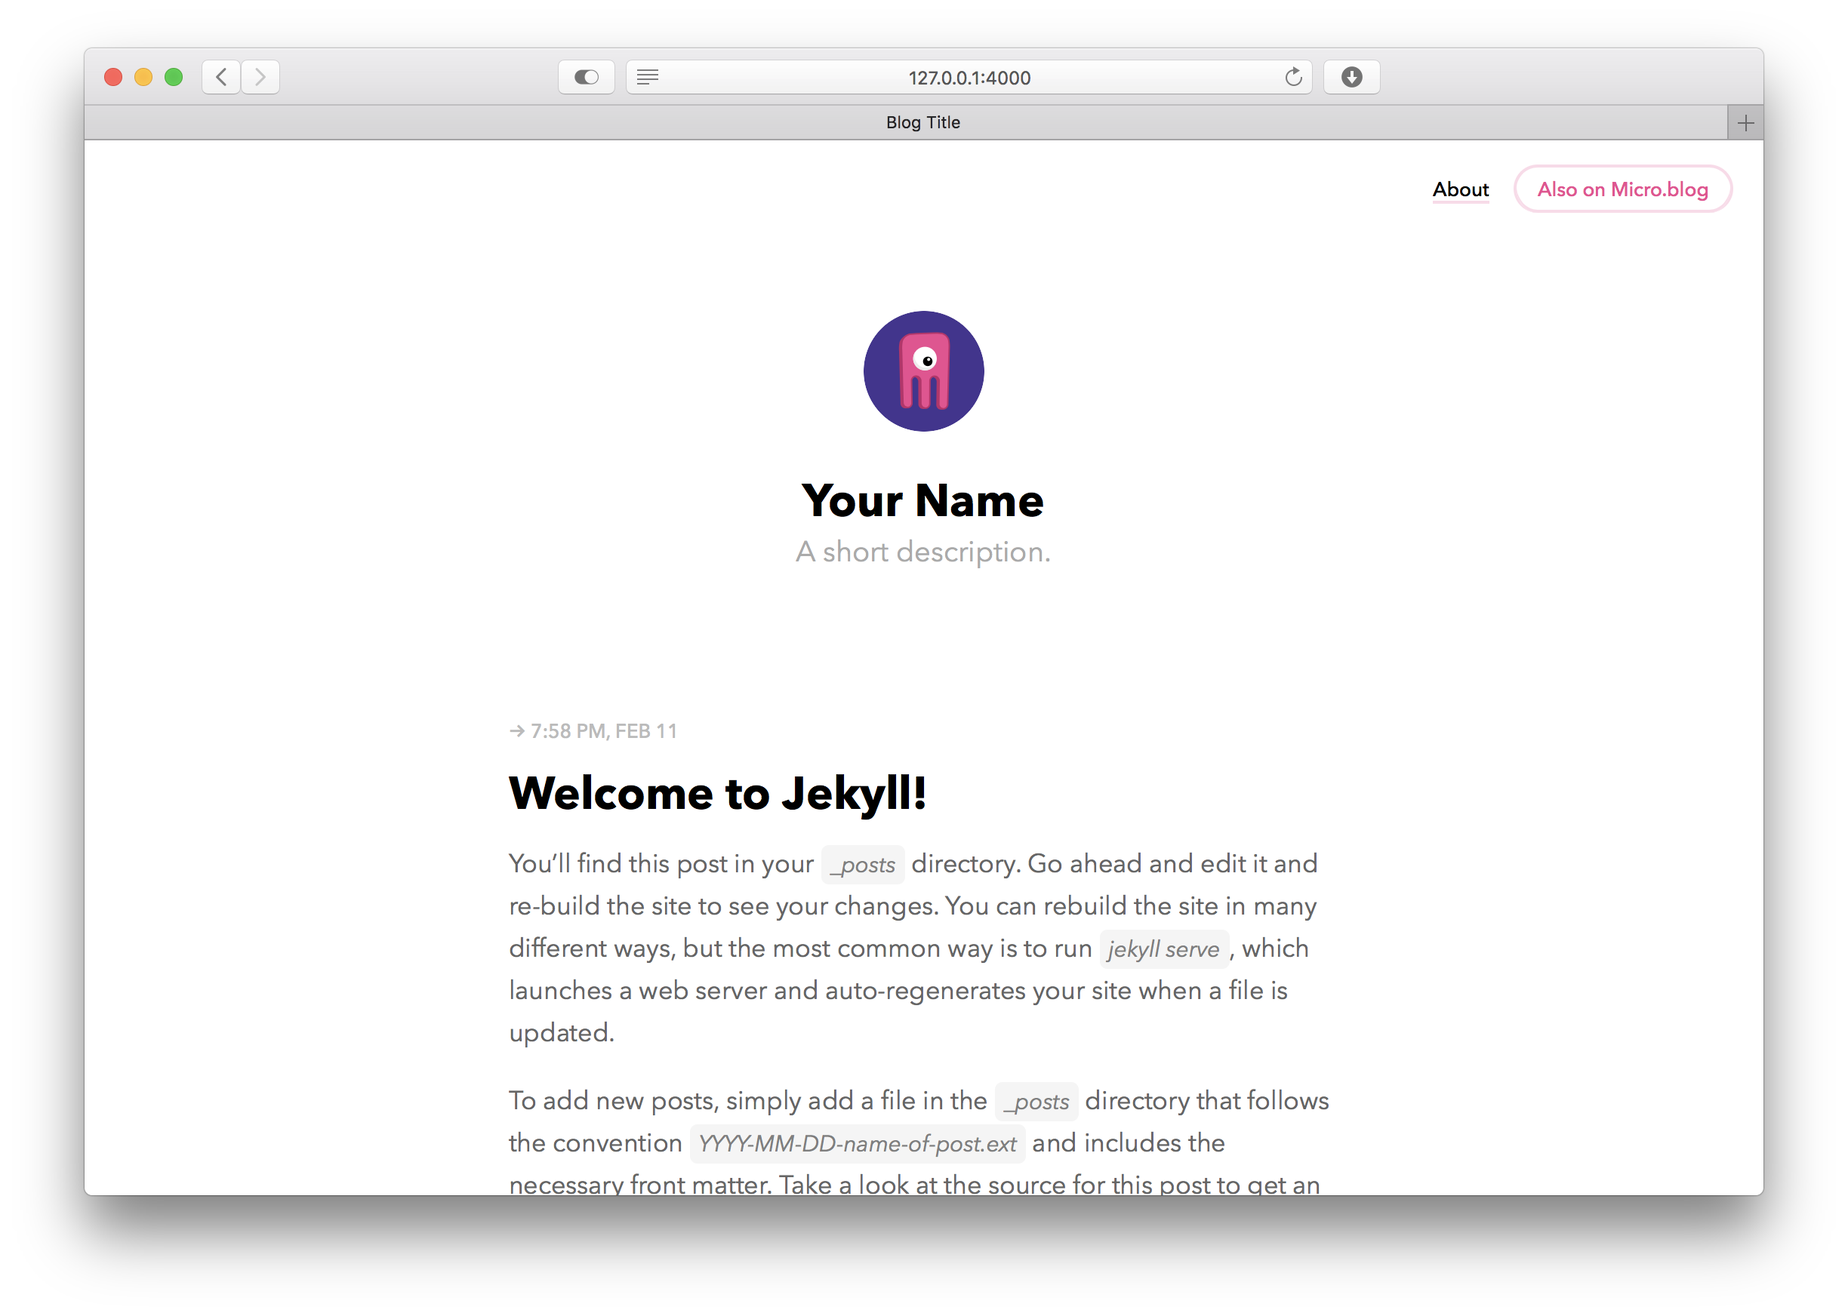
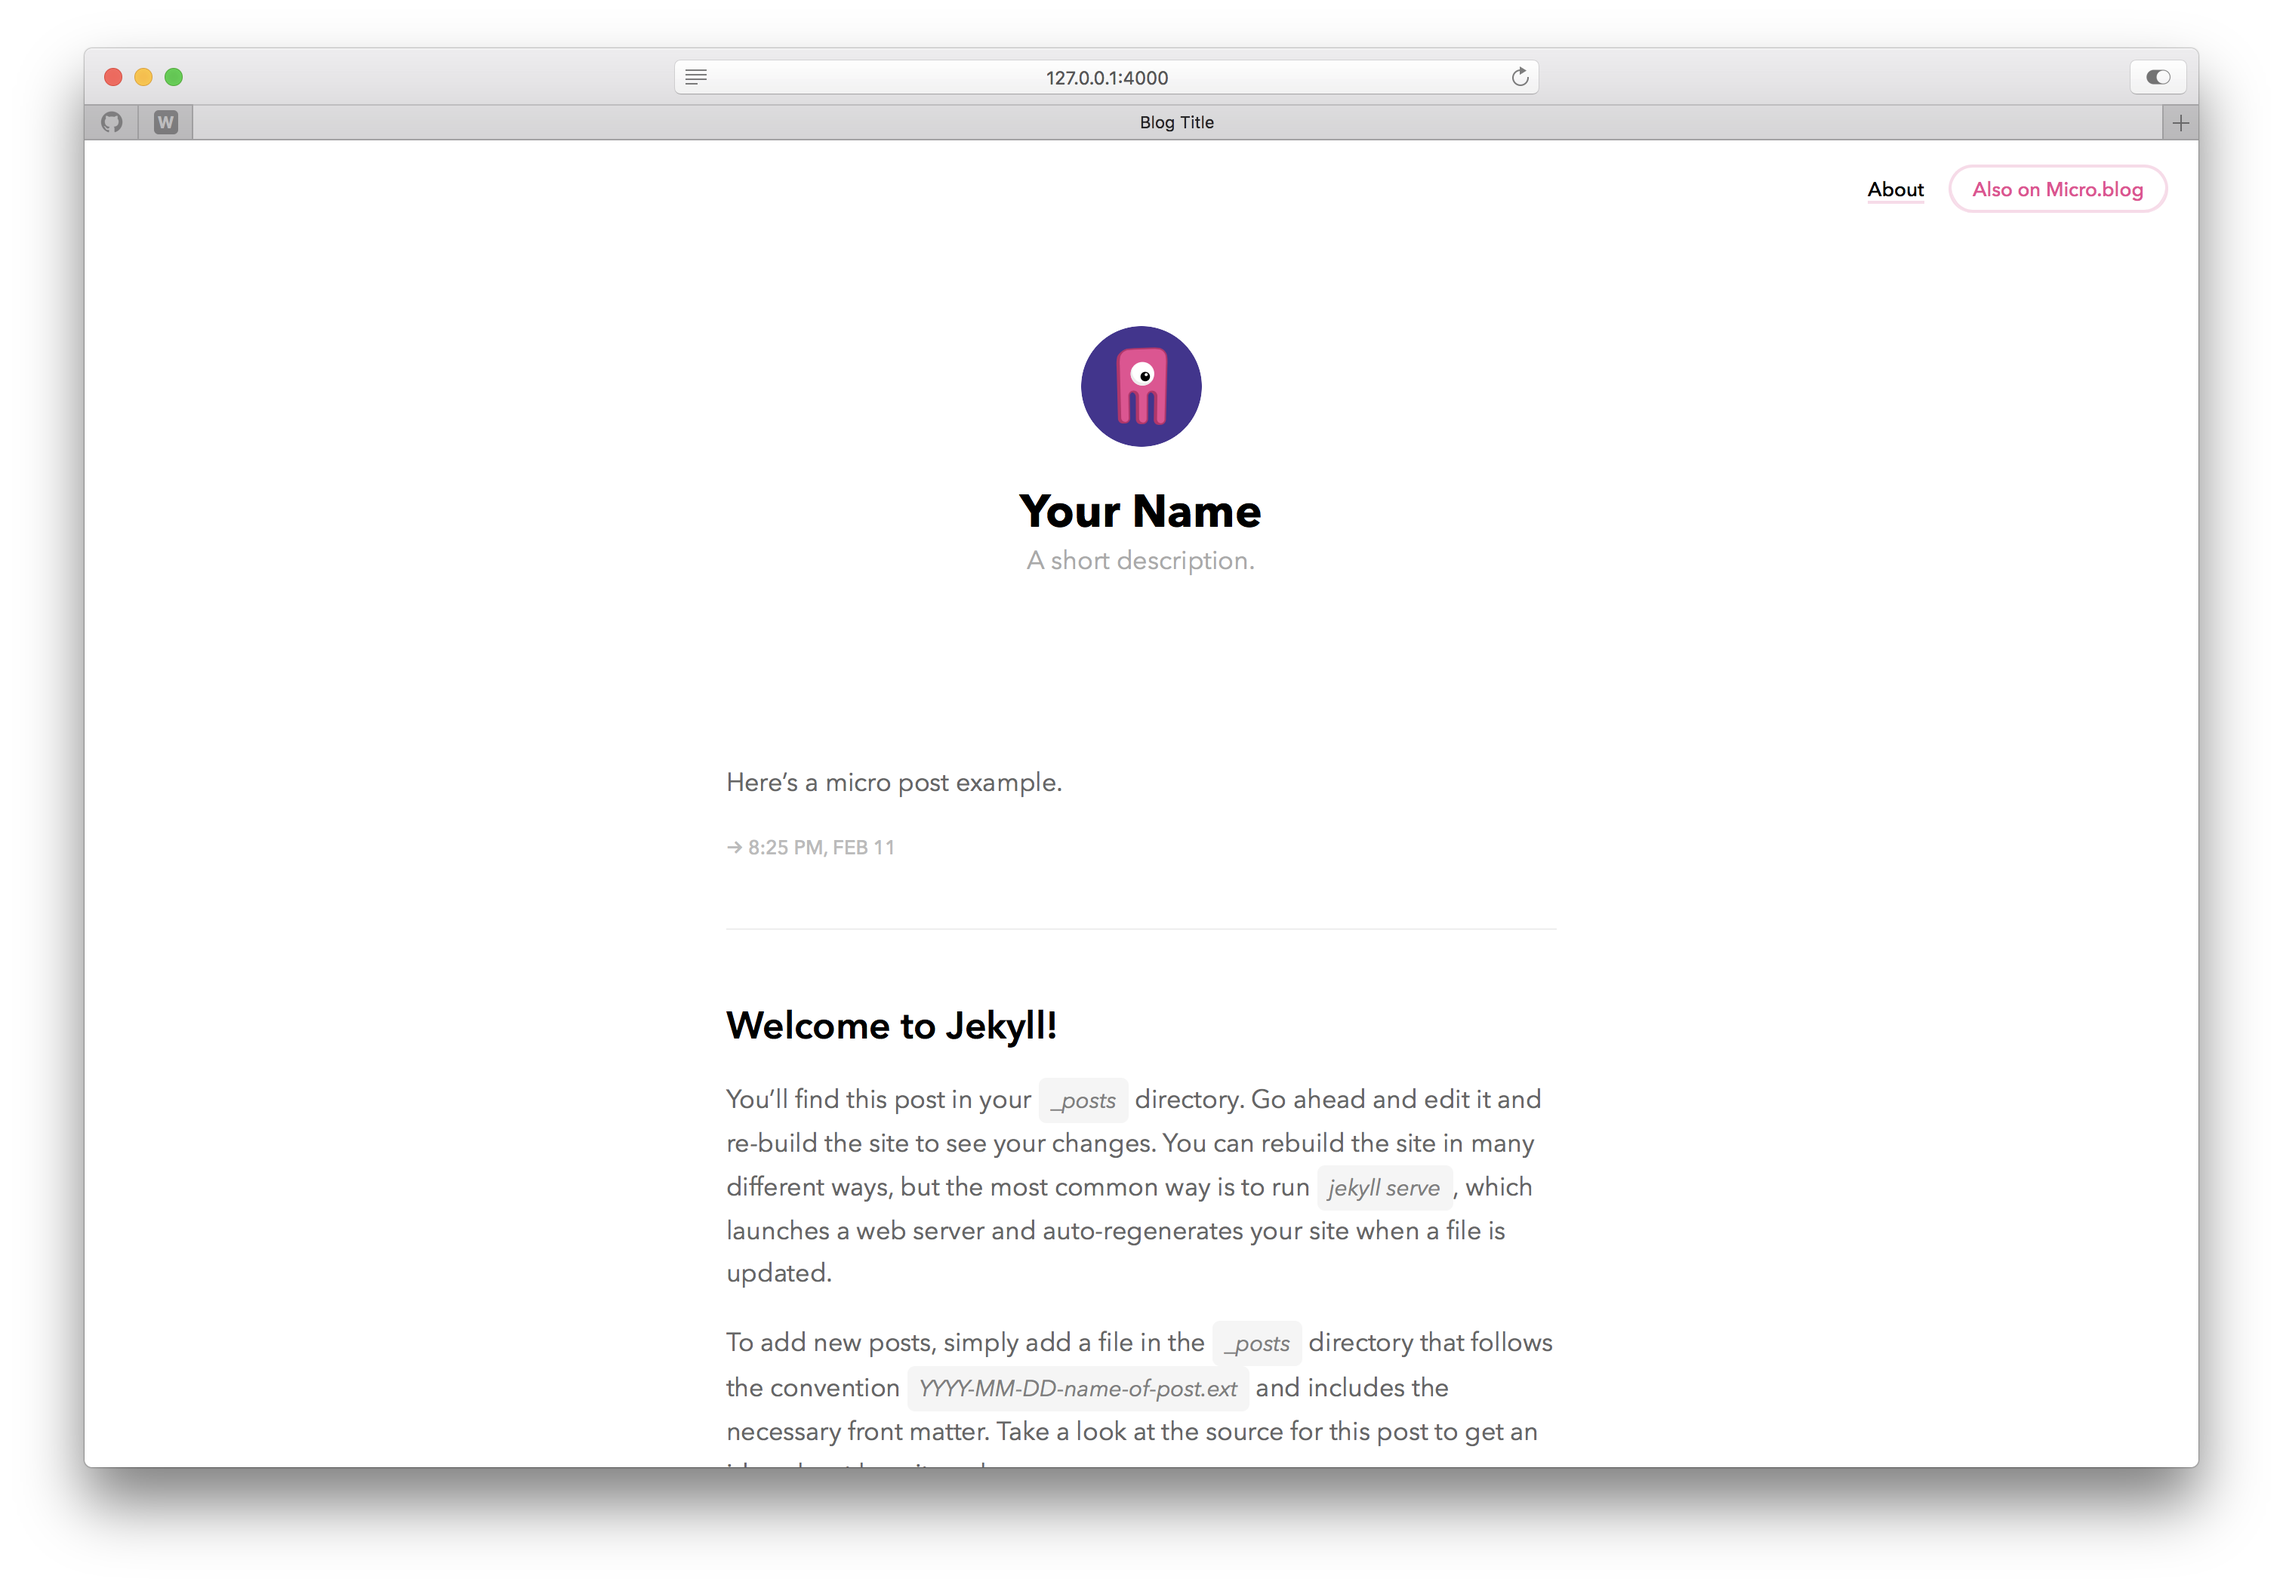
Many updates to layout and css

diff --git a/assets/css/style.css b/assets/css/style.css
@@ -13,7 +13,7 @@ html,body,div,span,applet,object,iframe,h1,h2,h3,h4,h5,h6,p,blockquote,pre,a,abb
 }
 
 /* Spacing */
-.highlight, .post h1, h2, h3, h4, h5, h6, p, .post-body ul, .post-body li, .bio li, video, pre ::before {
+.highlight, .post h1, h2, h3, p, .post-body ul, .dates, .post-body li, .bio li, video, pre ::before {
 	margin-top: 1em;
 }
 
@@ -40,7 +40,7 @@ body {
 	display: inline-block;
 	width: 80px;
 	height: 80px;
-	margin-bottom: 20px;
+	margin-bottom: 1em;
 	border-radius: 40px;
 }
 
@@ -52,6 +52,10 @@ body {
 
 .bio p:first-child {
 	margin-top: 0;
+}
+
+.bio li {
+	list-style-position: outside;
 }
 
 /* Nav */
@@ -107,7 +111,7 @@ p, li {
 	line-height: 1.7;
 }
 
-h1, h2, h3, h4, h5, h6 {
+h1, h2, h3 {
 	color: #000;
 }
 
@@ -118,26 +122,11 @@ h1 {
 
 h2 {
 	font-size: 25px;
-	font-weight: bold;
+	font-weight: 600;
 }
 
 h3 {
-	font-size: 23px;
-	font-weight: 500;
-}
-
-h4 {
-	font-size: 19px;
-	font-weight: 500;
-}
-
-h5 {
-	font-size: 15px;
-	font-weight: 500;
-}
-
-h6 {
-	font-size: 13px;
+	font-size: 20px;
 	font-weight: 500;
 }
 
@@ -316,8 +305,8 @@ Post List
 	margin-bottom: 0;
 }
 
-#post-list h1 {
-	padding-top: 17px;
+#post-list h2 {
+	margin-top: 0;
 	line-height: 1.35;
 }
 
@@ -348,7 +337,7 @@ footer #wrapper {
 #post-meta {
 	font-size: 13px;
 	font-weight: bold;
-	line-height: 1.4;
+	line-height: 1.5;
 	border-top: 1px solid #eee;
 	padding-top: 40px;
 	padding-bottom: 40px;
@@ -424,7 +413,7 @@ footer #wrapper {
 	color: #bbb;
 	width: 100%;
 	text-transform: uppercase;
-	margin-bottom: -5px;
+	padding-top: 5px;
 }
 
 h2.headline {
@@ -481,15 +470,4 @@ h2.headline {
 		font-size: 19px;
 	}
 
-	h4 {
-		font-size: 17px;
-	}
-
-	h5 {
-		font-size: 14px;
-	}
-
-	h6 {
-		font-size: 13px;
-	}
 }

diff --git a/_includes/post-list.html b/_includes/post-list.html
@@ -2,19 +2,23 @@
   {% for post in paginator.posts %}
   <li>
     <article>
-      <a href="{{ site.baseurl }}/{{ post.url | remove_first: '/' }}" class="u-url"><aside class="dates"><time datetime="{{ post.date }}" class="dt-published">→ {{ post.date | date:"%-I:%M %p, %b %-d" }}</time></aside></a>
       {% if post.title == "" %}
       <section class="post-body">
         {{ post.content }}
       </section>
       {% else %}
       <header>
-        <h1><a href="{{ site.baseurl }}/{{ post.url | remove_first: '/' }}">{{ post.title }}</a></h1>
+        <h2><a href="{{ site.baseurl }}/{{ post.url | remove_first: '/' }}">{{ post.title }}</a></h2>
       </header>
       <section class="post-body">
         {{ post.content }}
       </section>
       {% endif %}
+      <a href="{{ site.baseurl }}/{{ post.url | remove_first: '/' }}" class="u-url">
+        <aside class="dates">
+          <time datetime="{{ post.date }}" class="dt-published">→ {{ post.date | date:"%-I:%M %p, %b %-d" }}</time>
+        </aside>
+      </a>
     </article>
   </li>
   <span class="separator"><span class="divider"></span></span>
